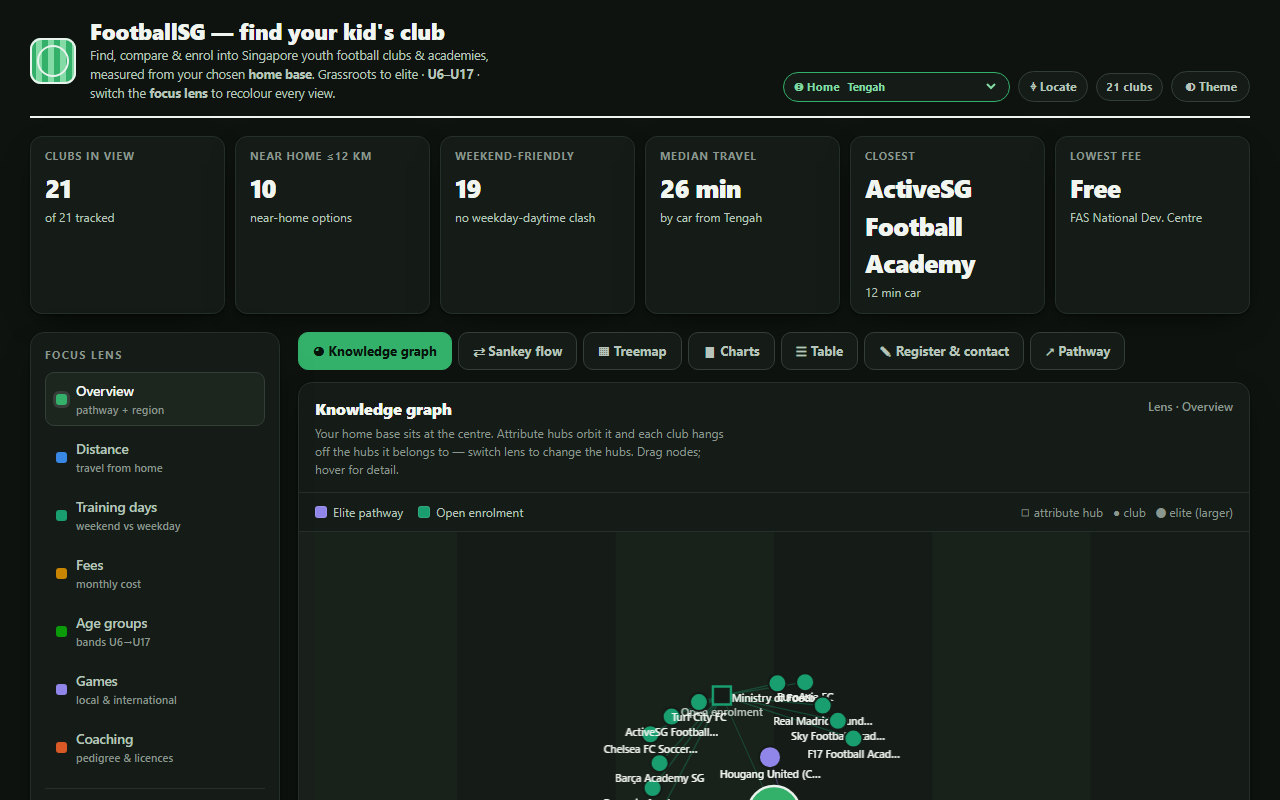
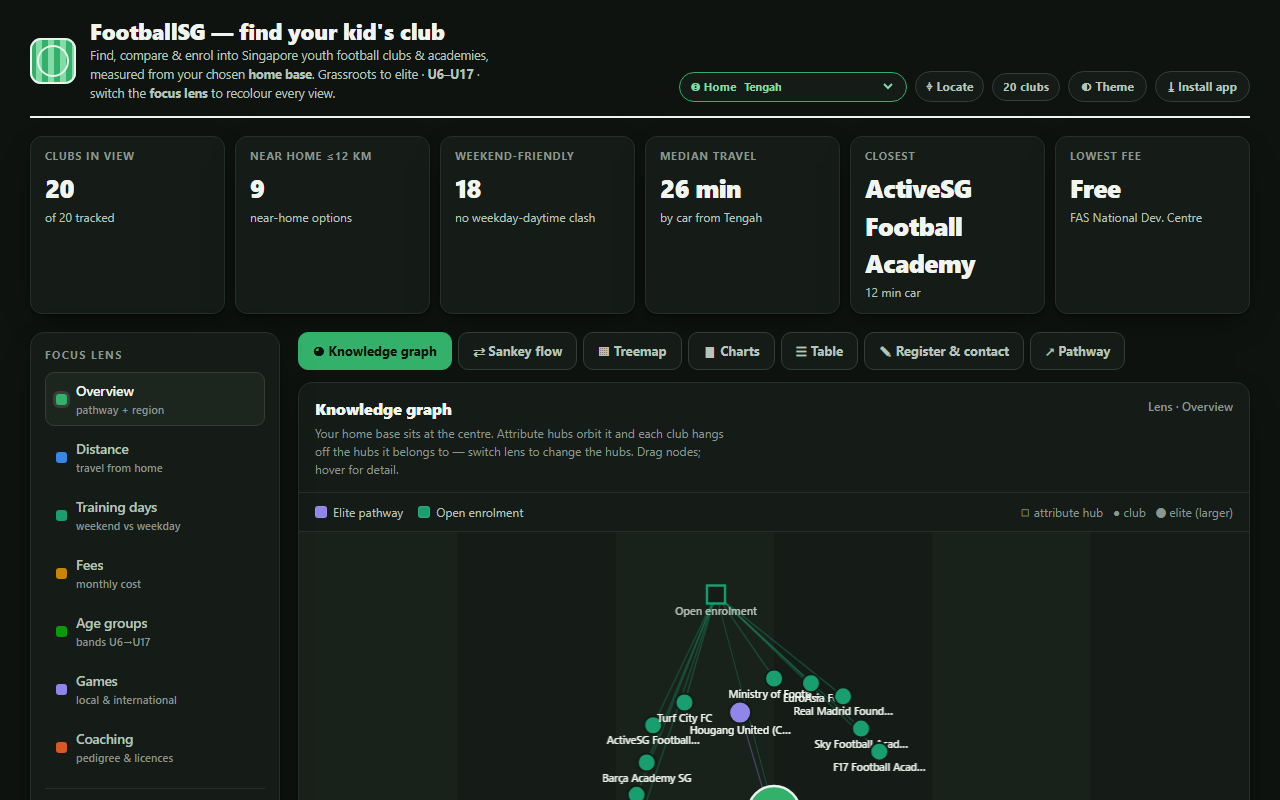
Drop Chelsea: the soccer school does not operate in Singapore
We were showing a ~S$320-450/term estimate for a school that appears not
to run here at all:

- chelseafcsssg.com has not resolved since ~2018 (last archive snapshot
  Dec 2018)
- chelseafc.com/cfcidc-sg returns 404, and Chelsea's own Singapore page
  now 301s to a generic foundation homepage with zero mentions of
  Singapore
- the separate Chelsea Foundation / UWCSEA development centre at
  Tampines, which we had been conflating with the Turf City school, also
  appears wound down — UWCSEA's own page 404s
- it is absent from every current 2026 curated academy list

The fee itself was never sourceable. It traced to a single listicle that
assigns Chelsea the same phone number and website it assigns a Borussia
Dortmund entry one line above — a content farm, not a source.

Quoting real money for a club a parent cannot actually join is the worst
failure mode this site has, so the entry comes out rather than getting a
lower confidence rating. Keeps the rule explicit in the data file: we
only list clubs that actually run in Singapore.

Screenshots regenerated for the 21 -> 20 count.

diff --git a/index.html b/index.html
@@ -497,18 +497,12 @@ const CLUBS=[
   trial:"Free tryout at any venue — book online.",
   email:"hello@barcaacademy.sg",phone:"+65 8079 6531",web:"barcaacademy.sg",reg:"https://barcaacademy.sg/registration-free-tryouts/",
   src:["barcaacademy.sg/barca-academy-programs/","barcaacademy.sg/our-locations/","barcaacademy.sg/faq/"]},
- {id:"che",name:"Chelsea FC Soccer School",cat:"open",region:"central",loc:"Rainforest Hub @ Turf City",km:11,car:18,transit:52,
-  ages:R("U6","U17"),feeMo:160,feeConf:"low",feeText:"~S$320–450/term (est)",
-  local:["Development sessions & friendlies"],intl:true,intlText:"Chelsea global curriculum; coach/player visits & camps",
-  coach:"FA/UEFA-certified staff",tier:"Licensed",cred:"Chelsea FC Foundation (since 2013)",
-  wd:true,we:true,wdDay:false,sched:"~1–2×/wk incl. weekend at Turf City",
-  sel:"open",selText:"Open, non-selective soccer school",
-  alumni:"Not documented",conf:"med",
-  join:"Register/enquire via the Singapore soccer school or by phone/email; term sessions at Turf City. (Official SG site was unreachable at research time — call to confirm.)",
-  req:"Ages 4–17. Grassroots/development using Chelsea's curriculum; no competitive-trial gate published.",
-  trial:"Trial availability not confirmed on official channels — call to confirm.",
-  email:"soccerschools@chelseafc.com",phone:"+65 6440 5503",web:"chelseafc.com/en/soccer-schools",
-  src:["chelseafc.com/en/soccer-schools"]},
+ // Chelsea FC Soccer School removed Jul 2026: it does not operate in Singapore. The Turf City
+ // school's site (chelseafcsssg.com) has not resolved since ~2018, chelseafc.com/cfcidc-sg 404s,
+ // Chelsea's own Singapore page now redirects to a generic foundation homepage with no mention of
+ // Singapore, and the separate Chelsea Foundation/UWCSEA development centre also appears wound down.
+ // The ~S$320-450/term we used to show traced to a content farm that gave Chelsea the same phone
+ // number and website it gave a Borussia Dortmund entry. We only list clubs that actually run here.
  {id:"asg",name:"ActiveSG Football Academy",cat:"open",region:"west",loc:"West venues: Jurongville, Kent Ridge, Kranji, Spectra Sec, Jurong Pioneer JC",km:5,car:12,transit:30,
   ages:R("U6","U16"),feeMo:65,feeConf:"low",feeText:"~S$65/mo is <b>our derivation, not an official figure</b> — ActiveSG publishes no fees on its Circle pages. It comes from a S$130-per-term rate (the only official figure traced is a <i>2016</i> SportSG release: \"$130 for the 14-session programme\"); third-party listings say S$130–180/term. Still almost certainly the cheapest option, but treat the number as approximate and confirm at registration.",
   feeSrc:{kind:"estimate",label:"derived from a S$130/term rate; ActiveSG does not publish fees. Nearest official figure is a 2016 SportSG media release — treat as approximate",url:"activesgcircle.gov.sg/academies-clubs/football"},
@@ -660,7 +654,7 @@ const HOME_BASES=[
  {id:"pasirris",name:"Pasir Ris",region:"east",xy:[37,14]},
  {id:"changi",name:"Changi",region:"east",xy:[41,11]}
 ];
-const CLUB_XY={lcs:[27,11],fcj:[12,11],tpu:[12,11],sss:[17,24],tsk:[11,15],ndc:[25,10],tmp:[36,11],bal:[23,16],gey:[34,10],jssl:[19,8],bor:[18,9],bar:[15,17],che:[17,13],asg:[11,15],tcfc:[18,9],hgfc:[27,16],mof:[8,12],euroasia:[23,13],rmf:[30,6],sky:[28,16],f17:[39,9]};
+const CLUB_XY={lcs:[27,11],fcj:[12,11],tpu:[12,11],sss:[17,24],tsk:[11,15],ndc:[25,10],tmp:[36,11],bal:[23,16],gey:[34,10],jssl:[19,8],bor:[18,9],bar:[15,17],asg:[11,15],tcfc:[18,9],hgfc:[27,16],mof:[8,12],euroasia:[23,13],rmf:[30,6],sky:[28,16],f17:[39,9]};
 const HOME_LL={tengah:[1.374,103.715],jurongeast:[1.333,103.742],bukitbatok:[1.349,103.750],choachukang:[1.385,103.744],bukitpanjang:[1.378,103.762],clementi:[1.315,103.765],jurongwest:[1.340,103.705],bukittimah:[1.338,103.776],queenstown:[1.294,103.786],toapayoh:[1.334,103.847],bishan:[1.351,103.848],angmokio:[1.370,103.849],kallang:[1.311,103.865],woodlands:[1.436,103.786],yishun:[1.429,103.835],sembawang:[1.449,103.820],serangoon:[1.353,103.870],hougang:[1.371,103.892],sengkang:[1.391,103.895],punggol:[1.405,103.902],marineparade:[1.302,103.905],bedok:[1.324,103.930],tampines:[1.353,103.945],pasirris:[1.373,103.949],changi:[1.352,103.988]};
 function haversine(la1,lo1,la2,lo2){const R=6371,p=Math.PI/180,dLa=(la2-la1)*p,dLo=(lo2-lo1)*p,a=Math.sin(dLa/2)**2+Math.cos(la1*p)*Math.cos(la2*p)*Math.sin(dLo/2)**2;return 2*R*Math.asin(Math.sqrt(a));}
 function homeBase(){return HOME_BASES.find(h=>h.id===state.home)||HOME_BASES[0];}

diff --git a/README.md b/README.md
@@ -13,7 +13,7 @@ weekday sessions**, **travel time**, **monthly fees by age band**, **age-group f
 
 ## What it shows
 
-21 clubs island-wide across two pathways — **elite** (Singapore Youth League / Centre-of-Excellence)
+20 clubs island-wide across two pathways — **elite** (Singapore Youth League / Centre-of-Excellence)
 and **open enrolment** (brand & community academies) — with six ways to read the same data:
 
 | View | What it answers |
@@ -62,7 +62,10 @@ League, and local press. Each club carries a **confidence** rating and its **sou
 (U6–U17) are drawn from each club's **stated age range**; fees and exact training days/times are
 **indicative** — confirm directly with each club before enrolling. Notable notes: Albirex Niigata's
 youth setup **rebranded to FC Jurong** from Jan 2026; the "Borussia" academy is
-**Mönchengladbach**, not Dortmund; there is **no standing Man Utd academy** in Singapore.
+**Mönchengladbach**, not Dortmund; there is **no standing Man Utd academy** in Singapore; and the
+**Chelsea FC Soccer School was removed** in Jul 2026 — it no longer operates here (its site has been
+dead since ~2018 and Chelsea's own Singapore pages 404 or redirect away). We only list clubs that
+actually run in Singapore.
 
 ## Deep links
 
